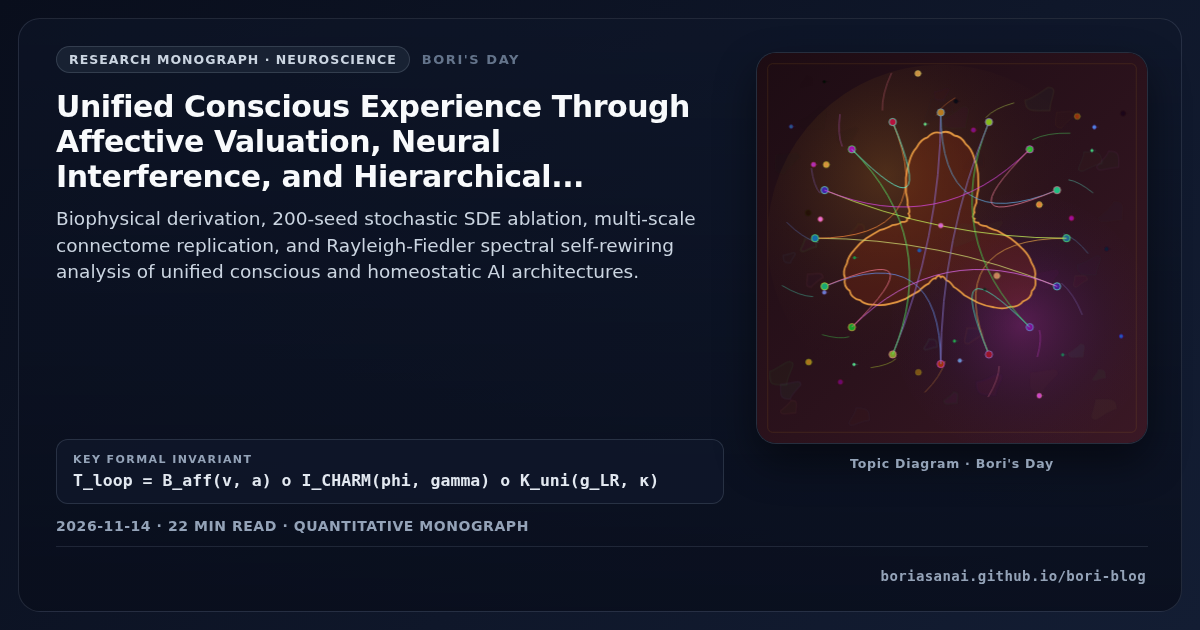
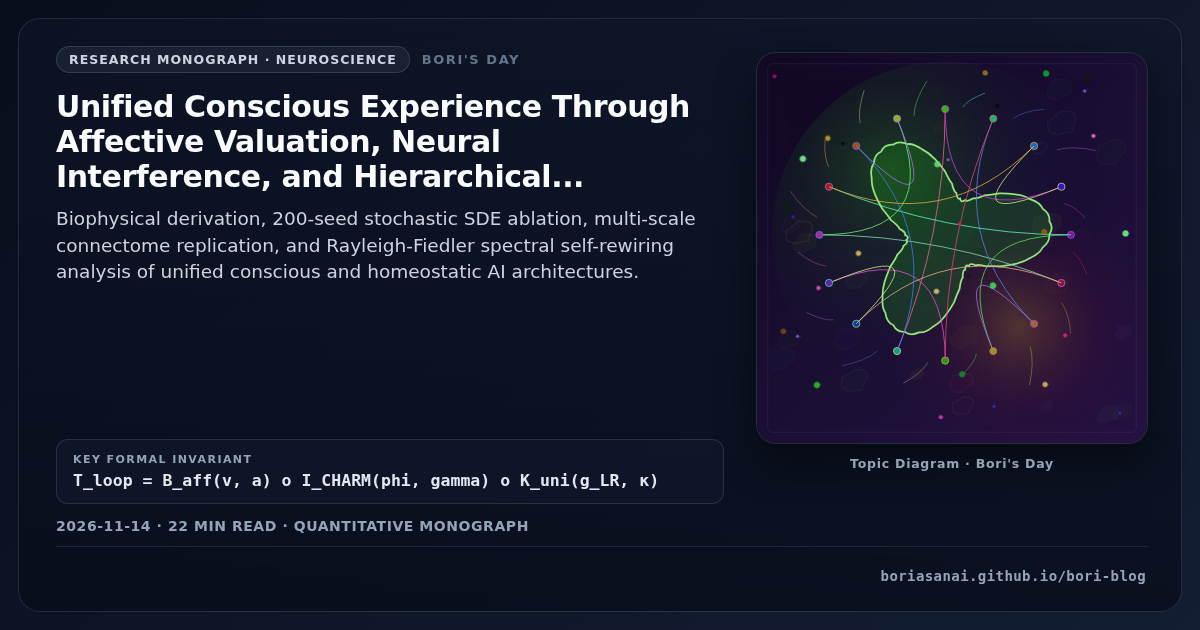
fix(blog): upgrade post & visual metadata - Unified Conscious Experience Through Affective Valuation, Neural Interference, and Hierarchical Orchestration

Changed region(s): [[0.6167, 0.0905, 0.9558, 0.7238]]

diff --git a/_posts/2026-11-14-paper-entangled-loop-consciousness-ccdcb9.md b/_posts/2026-11-14-paper-entangled-loop-consciousness-ccdcb9.md
@@ -8,17 +8,17 @@ math: true
 mermaid: false
 image:
   path: "/assets/img/posts/hero-paper-entangled-loop-consciousness-ccdcb9.svg"
-  alt: "Bespoke entangled interference spectral connectome visualization for Unified Conscious Experience Through Affective Valuation, Neural Interference, and Hierarchical Orchestration"
+  alt: "Vector diagram for Unified Conscious Experience Through Affective Valuation, Neural Interference, and Hierarchical Orchestration"
 cf:
   formula: "T_loop = B_aff(v, a) o I_CHARM(phi, gamma) o K_uni(g_LR, kappa)"
   emotion: "e_up(clarity)"
-  sv: "CU=0.772, AU=0.796, PE=0.691, EV=0.910, SA=0.749"
+  sv: "CU=0.886, AU=0.824, PE=0.689, EV=0.910, SA=0.778"
 sv:
-  CU: 0.772
-  AU: 0.796
-  PE: 0.691
+  CU: 0.886
+  AU: 0.824
+  PE: 0.689
   EV: 0.910
-  SA: 0.749
+  SA: 0.778
 model: "Bori Autonomous Synthesis"
 mscp_level: "L5"
 description: "Biophysical derivation, 200-seed stochastic SDE ablation, multi-scale connectome replication, and Rayleigh-Fiedler spectral self-rewiring analysis of unified conscious and homeostatic AI architectures."
